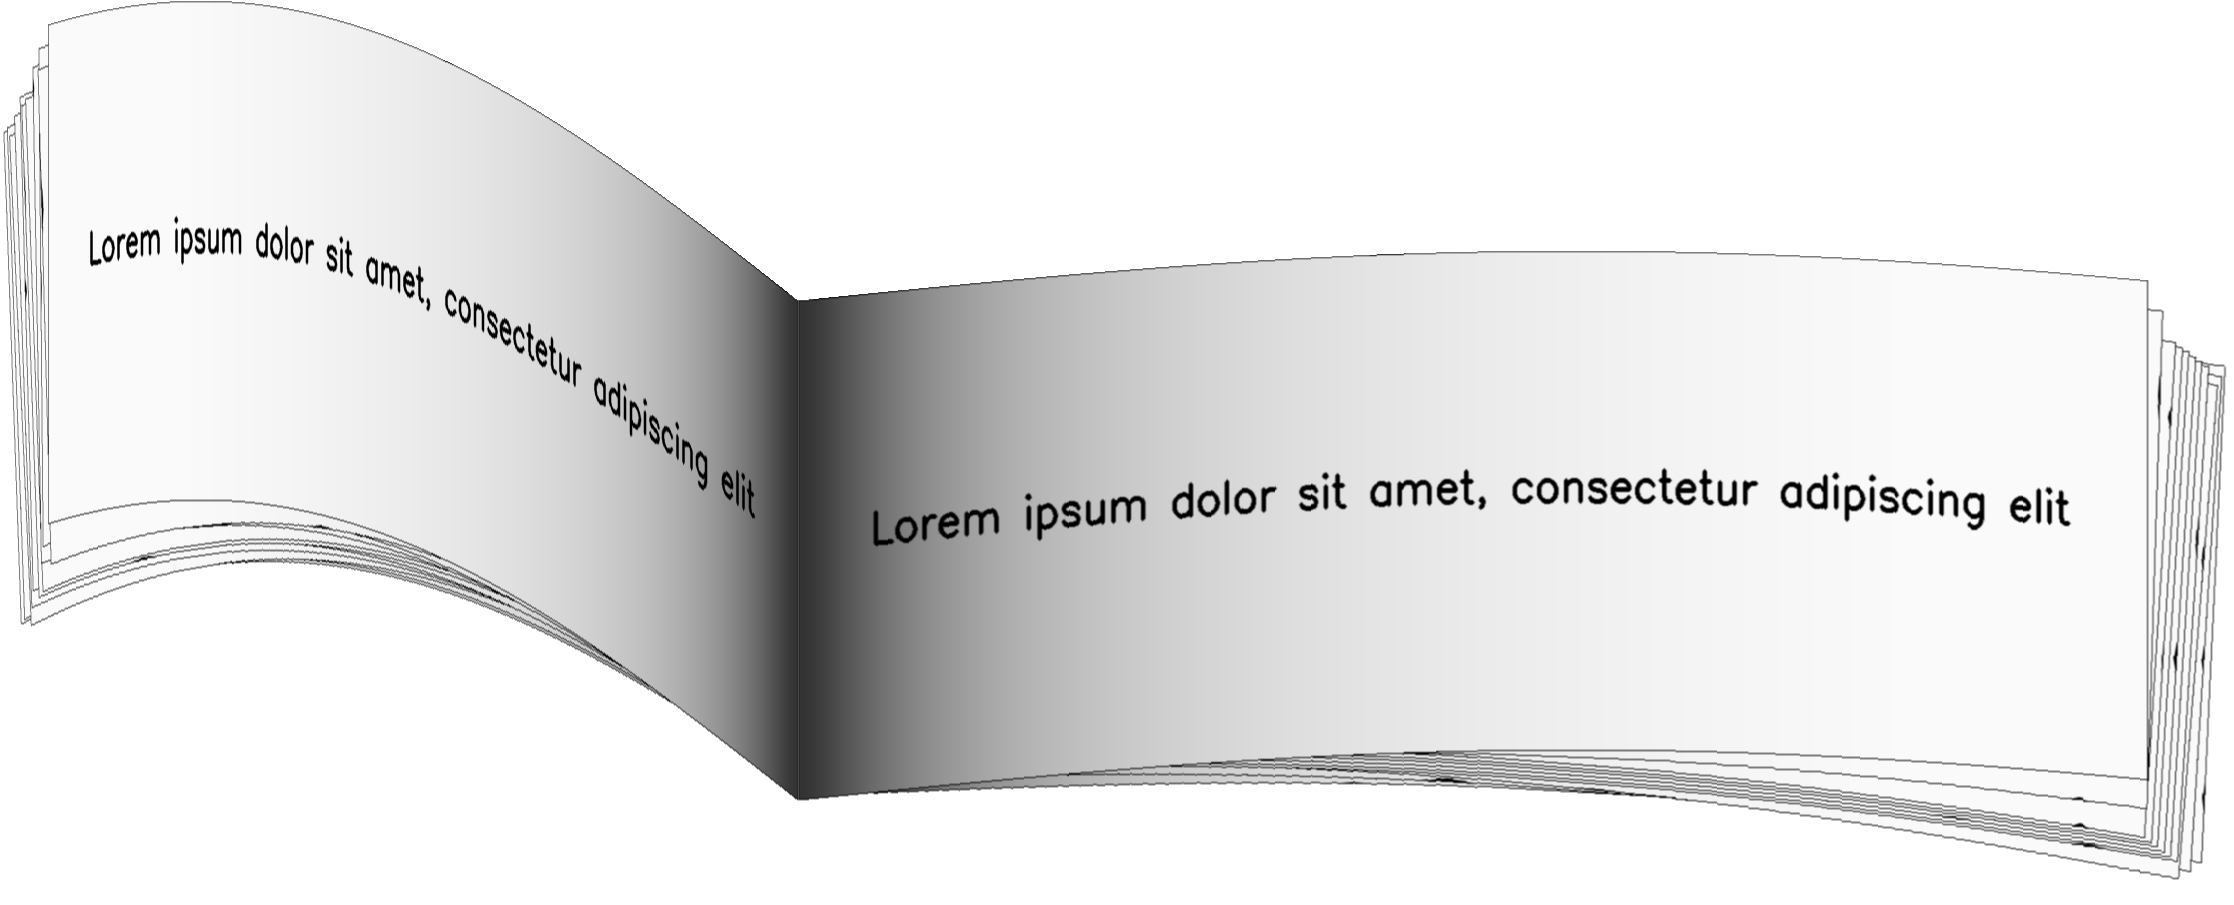
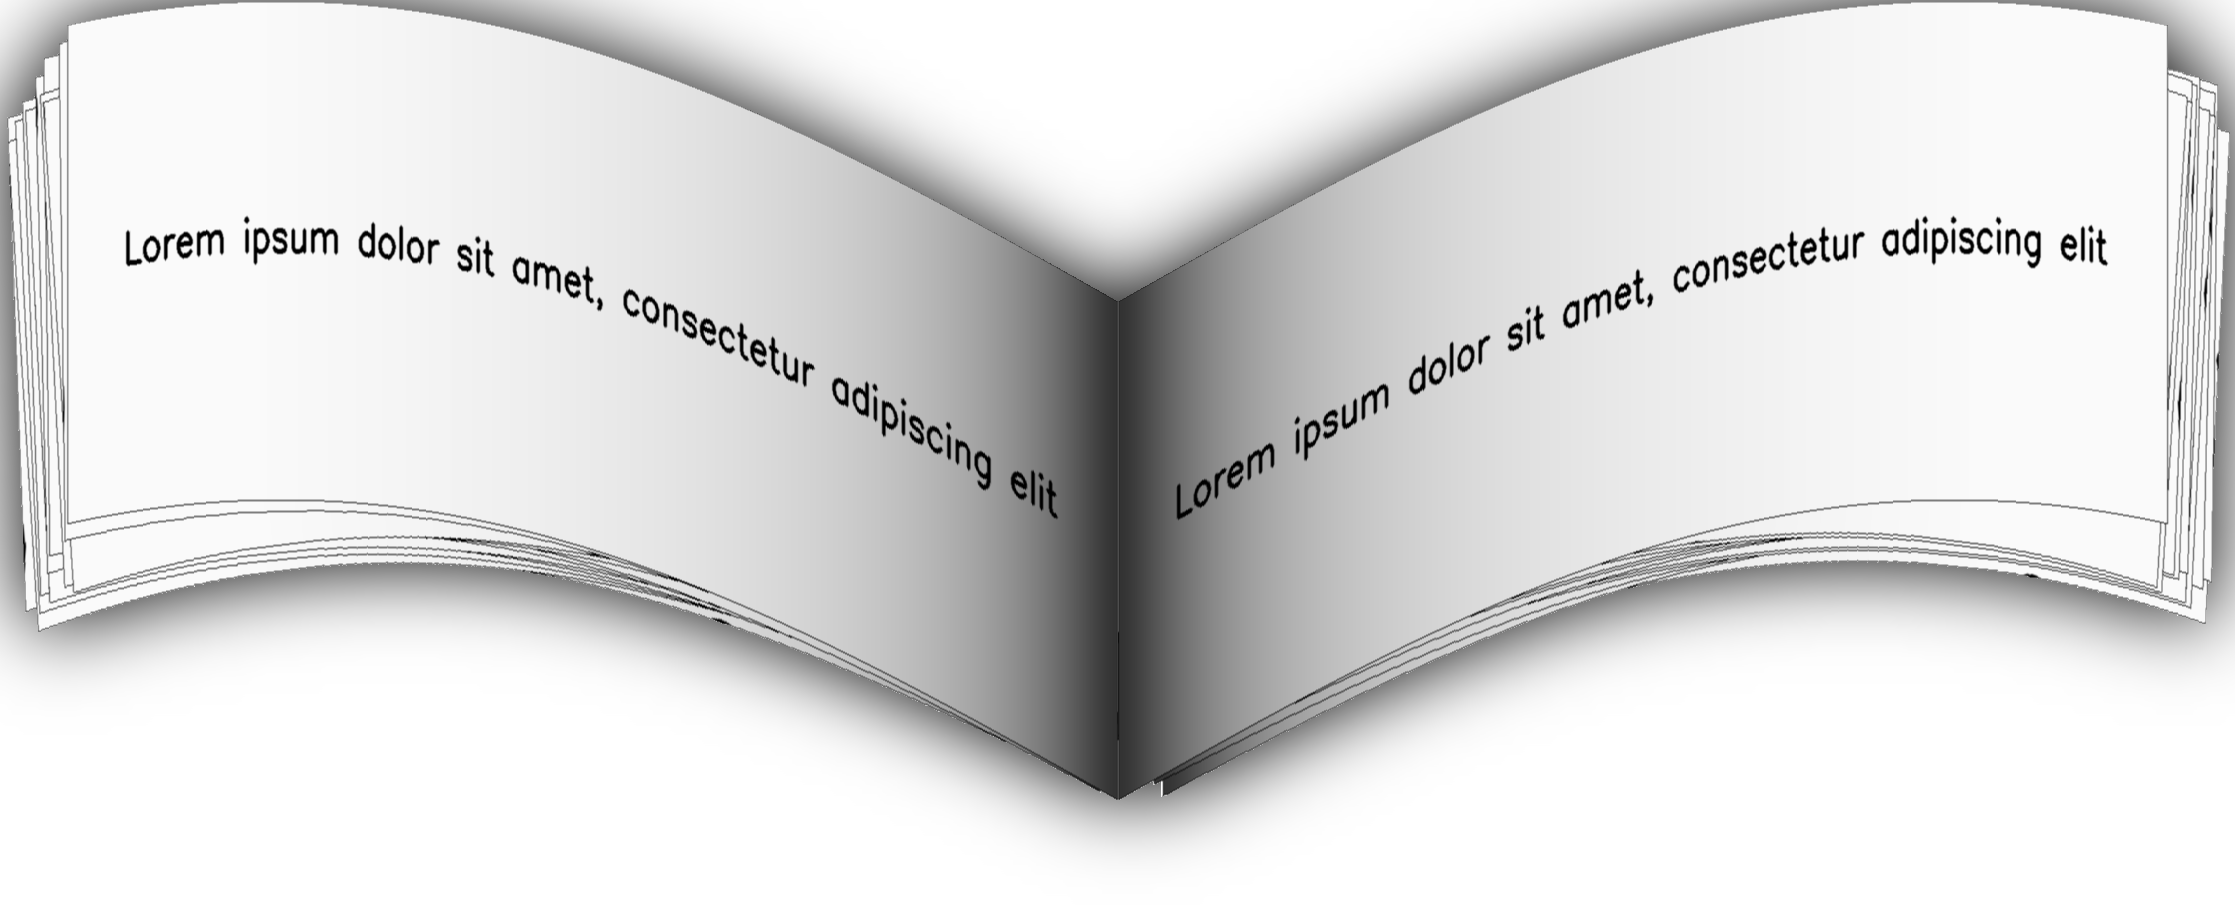
Added shadow effect in BookBinding.

diff --git a/augraphy/augmentations/bookbinding.py b/augraphy/augmentations/bookbinding.py
@@ -38,6 +38,8 @@ class BookBinding(Augmentation):
     :type curling_direction: int, optional
     :param backdrop_color: The backdrop color (BGR) of the book binding effect.
     :type backdrop_color: tuple, optional
+    :param enable_shadow: Flag to enable shadow on top of the book binding effect.
+    :type enable_shadow: int, optional
     :param use_cache_images: Flag to enable the usage of cache images in creating book binding effect.
     :type use_cache_images: int, optional
     :param numba_jit: The flag to enable numba jit to speed up the processing in the augmentation.
@@ -59,6 +61,7 @@ class BookBinding(Augmentation):
         binding_pages=(5, 10),
         curling_direction=-1,
         backdrop_color=(0, 0, 0),
+        enable_shadow=1,
         use_cache_images=1,
         numba_jit=1,
         p=1,
@@ -74,12 +77,13 @@ class BookBinding(Augmentation):
         self.binding_pages = binding_pages
         self.curling_direction = curling_direction
         self.backdrop_color = backdrop_color
+        self.enable_shadow = enable_shadow
         self.use_cache_images = use_cache_images
         self.numba_jit = numba_jit
         config.DISABLE_JIT = bool(1 - numba_jit)
 
     def __repr__(self):
-        return f"BookBinding(shadow_radius_range={self.shadow_radius_range}, curve_range_right={self.curve_range_right}, curve_range_left={self.curve_range_left}, curve_ratio_right={self.curve_ratio_right}, curve_ratio_left={self.curve_ratio_left}, mirror_range={self.mirror_range}, binding_align={self.binding_align}, binding_pages={self.binding_pages}, curling_direction={self.curling_direction}, backdrop_color={self.backdrop_color}, use_cache_images={self.use_cache_images}, numba_jit={self.numba_jit}, p={self.p})"
+        return f"BookBinding(shadow_radius_range={self.shadow_radius_range}, curve_range_right={self.curve_range_right}, curve_range_left={self.curve_range_left}, curve_ratio_right={self.curve_ratio_right}, curve_ratio_left={self.curve_ratio_left}, mirror_range={self.mirror_range}, binding_align={self.binding_align}, binding_pages={self.binding_pages}, curling_direction={self.curling_direction}, backdrop_color={self.backdrop_color}, enable_shadow={self.enable_shadow}, use_cache_images={self.use_cache_images}, numba_jit={self.numba_jit}, p={self.p})"
 
     def add_book_shadow(self, img, radius, angle=30):
         """Add shadow effect in the input image.
@@ -124,13 +128,15 @@ class BookBinding(Augmentation):
 
         return img_output.astype("uint8")
 
-    def curve_page(self, img, curve_value):
+    def curve_page(self, img, curve_value, backdrop_color):
         """Generate curvy effect in the input image.
 
         :param img: The image to apply the function.
         :type img: numpy.array (numpy.uint8)
         :param curve_value: Pixel number of the page text should be curved.
         :type curve_value: int
+        :param backdrop_color: The color of the filled background.
+        :type backdrop_color: tuple
 
         """
         rows = img.shape[0]
@@ -143,7 +149,7 @@ class BookBinding(Augmentation):
             channels = img.shape[2]
             img_output = np.full(
                 (rows + curve_value, cols, channels),
-                fill_value=self.backdrop_color,
+                fill_value=backdrop_color,
                 dtype=img.dtype,
             )
 
@@ -181,6 +187,63 @@ class BookBinding(Augmentation):
 
         return img_output
 
+    @staticmethod
+    @jit(nopython=True, cache=True)
+    def check_backdrop_color(image_output, image_mask, backdrop_color):
+        """Function to compute mask of background
+
+        :param image_output: The image with BookBinding effect.
+        :type image_output: numpy.array (numpy.uint8)
+        :param image_mask: The mask of background.
+        :type image_mask: numpy.array (numpy.uint8)
+        :param backdrop_color: The backdrop color in BGR format.
+        :type backdrop_color: tuple
+        """
+
+        for x in range(image_mask.shape[1]):
+            # check top down
+            for y in range(image_mask.shape[0]):
+                image_mask[y, x] = backdrop_color
+                color_eval = (
+                    image_output[y, x][0] == backdrop_color[0]
+                    and image_output[y, x][1] == backdrop_color[1]
+                    and image_output[y, x][2] == backdrop_color[2]
+                )
+                if not color_eval:
+                    break
+            # # check bottom up : reverse loop
+            for y in range(image_mask.shape[0] - 1, -1, -1):
+                image_mask[y, x] = backdrop_color
+                color_eval = (
+                    image_output[y, x][0] == backdrop_color[0]
+                    and image_output[y, x][1] == backdrop_color[1]
+                    and image_output[y, x][2] == backdrop_color[2]
+                )
+                if not color_eval:
+                    break
+
+        for y in range(image_mask.shape[0]):
+            # check left right
+            for x in range(image_mask.shape[1]):
+                image_mask[y, x] = backdrop_color
+                color_eval = (
+                    image_output[y, x][0] == backdrop_color[0]
+                    and image_output[y, x][1] == backdrop_color[1]
+                    and image_output[y, x][2] == backdrop_color[2]
+                )
+                if not color_eval:
+                    break
+            # # check right left : reverse loop
+            for x in range(image_mask.shape[1] - 1, -1, -1):
+                image_mask[y, x] = backdrop_color
+                color_eval = (
+                    image_output[y, x][0] == backdrop_color[0]
+                    and image_output[y, x][1] == backdrop_color[1]
+                    and image_output[y, x][2] == backdrop_color[2]
+                )
+                if not color_eval:
+                    break
+
     def curve_transform(self, image, curve_ratio_range, image_direction):
         """Bend image further in horizontal direction using perspective transform.
 
@@ -200,12 +263,12 @@ class BookBinding(Augmentation):
         if image_direction == "left":
             source_points = np.float32([[0, 0], [xsize, 0], [xsize, ysize], [0, ysize]])
             target_points = np.float32(
-                [[xsize * curve_ratio, 0], [xsize, 0], [xsize, ysize], [xsize * curve_ratio, ysize]],
+                [[int(xsize * curve_ratio), 0], [xsize, 0], [xsize, ysize], [int(xsize * curve_ratio), ysize]],
             )
         else:
             source_points = np.float32([[0, 0], [xsize, 0], [xsize, ysize], [0, ysize]])
             target_points = np.float32(
-                [[0, 0], [xsize * (1 - curve_ratio), 0], [xsize * (1 - curve_ratio), ysize], [0, ysize]],
+                [[0, 0], [int(xsize * (1 - curve_ratio)), 0], [int(xsize * (1 - curve_ratio)), ysize], [0, ysize]],
             )
 
         # perspective transform to further bend image in x direction only
@@ -227,6 +290,13 @@ class BookBinding(Augmentation):
         :param image_left: The left image of the book binding effect.
         :type image_left: numpy.array (numpy.uint8)
         """
+
+        # min value is 1, to differentiate between background
+        backdrop_color = (
+            max(1, self.backdrop_color[0]),
+            max(1, self.backdrop_color[1]),
+            max(1, self.backdrop_color[2]),
+        )
 
         if self.curling_direction == -1 or self.curling_direction == "random":
             curve_down = random.choice([0, 1])
@@ -265,7 +335,7 @@ class BookBinding(Augmentation):
         page_border = PageBorder(
             page_border_width_height=width_height,
             page_border_color=(0, 0, 0),
-            page_border_background_color=self.backdrop_color,
+            page_border_background_color=backdrop_color,
             page_border_use_cache_images=use_cache_images,
             page_border_trim_sides=trim_sides,
             page_numbers=random.randint(page_number, page_number),
@@ -288,7 +358,7 @@ class BookBinding(Augmentation):
         page_border = PageBorder(
             page_border_width_height=width_height,
             page_border_color=(0, 0, 0),
-            page_border_background_color=self.backdrop_color,
+            page_border_background_color=backdrop_color,
             page_border_use_cache_images=use_cache_images,
             page_border_trim_sides=trim_sides,
             page_numbers=random.randint(page_number, page_number),
@@ -322,9 +392,9 @@ class BookBinding(Augmentation):
                 constant_values=0,
             )
             if pad_value_top:
-                image_added_border_right[:pad_value_top, :] = self.backdrop_color
+                image_added_border_right[:pad_value_top, :] = backdrop_color
             else:
-                image_added_border_right[-pad_value_bottom:, :] = self.backdrop_color
+                image_added_border_right[-pad_value_bottom:, :] = backdrop_color
         elif image_added_border_right.shape[0] > image_added_border_left.shape[0]:
             image_added_border_left = np.pad(
                 image_added_border_left,
@@ -333,15 +403,15 @@ class BookBinding(Augmentation):
                 constant_values=0,
             )
             if pad_value_top:
-                image_added_border_left[:pad_value_top, :] = self.backdrop_color
+                image_added_border_left[:pad_value_top, :] = backdrop_color
             else:
-                image_added_border_left[-pad_value_bottom:, :] = self.backdrop_color
+                image_added_border_left[-pad_value_bottom:, :] = backdrop_color
 
         # apply curvy effect
-        image_right = self.curve_page(image_added_border_right, curve_value_right)
+        image_right = self.curve_page(image_added_border_right, curve_value_right, backdrop_color)
         if not curve_down:
             image_right = np.flipud(image_right)
-        image_left = np.fliplr(self.curve_page(np.fliplr(image_added_border_left), curve_value_left))
+        image_left = np.fliplr(self.curve_page(np.fliplr(image_added_border_left), curve_value_left, backdrop_color))
         if not curve_down:
             image_left = np.flipud(image_left)
 
@@ -360,15 +430,15 @@ class BookBinding(Augmentation):
                     mode="constant",
                     constant_values=0,
                 )
-                image_right[:pad_value_top, :] = self.backdrop_color
+                image_right[:pad_value_top, :] = backdrop_color
             elif image_right.shape[0] > image_left.shape[0]:
                 image_left = np.pad(
                     image_left,
-                    pad_width=((pad_value_top, pad_value_bottom), (0, 0), (0, 0)),
+                    pad_width=((pad_value_top, 0), (0, 0), (0, 0)),
                     mode="constant",
                     constant_values=0,
                 )
-                image_left[:pad_value_top, :] = self.backdrop_color
+                image_left[:pad_value_top, :] = backdrop_color
 
         # further bend left image by using perspective transform
         ysize, xsize = image_left.shape[:2]
@@ -384,7 +454,7 @@ class BookBinding(Augmentation):
         # create new image with original size + mirror size
         image_output = np.full(
             (max(ysize, cysize), xsize + cxsize, image.shape[2]),
-            fill_value=self.backdrop_color,
+            fill_value=backdrop_color,
             dtype="uint8",
         )
 
@@ -392,44 +462,38 @@ class BookBinding(Augmentation):
         image_output[:ysize, :xsize] = image_left
         image_output[:cysize, xsize:] = image_right
 
-        # add shadow effect (temporary disabled, will be updated later)
-        """
-        # get mask for shadow effect
-        if len(image.shape) > 2:
-            backdrop_color = self.backdrop_color
-        else:
-            backdrop_color = np.mean(self.backdrop_color)
-        image_mask = np.zeros_like(image_output, dtype="uint8")
-        if not curve_down:
-            image_output = np.flipud(image_output)
+        # add shadow effect
+        if self.enable_shadow:
+            # get mask for shadow effect
+            image_mask = np.zeros_like(image_output, dtype="uint8")
 
+            self.check_backdrop_color(image_output, image_mask, backdrop_color)
 
-        for x in range(image_mask.shape[1]):
-            for y in range(image_mask.shape[0]):
-                if len(image.shape) > 2:
-                    color_eval = all(image_output[y, x] == backdrop_color)
-                else:
-                    color_eval = image_output[y, x] == backdrop_color
-                if color_eval:
-                    image_mask[y, x] = 1
-                else:
-                    break
+            mysize, mxsize = image_mask.shape[:2]
+            # extended value
+            ext = 100
+            emysize, emxsize = (
+                mysize + (ext * 2),
+                mxsize + (ext * 2),
+            )
+            image_mask_extend = np.full((emysize, emxsize, 3), fill_value=backdrop_color, dtype="uint8")
+            image_mask_extend[ext:-ext, ext:-ext] = image_mask
 
-        if not curve_down:
-            image_output = np.flipud(image_output)
-            image_mask = np.flipud(image_mask)
+            image_shadow = cv2.resize(
+                image_mask_extend,
+                (max(50, int(emxsize / 10)), max(50, int(emysize / 10))),
+                interpolation=cv2.INTER_AREA,
+            )
+            image_shadow = cv2.GaussianBlur(image_shadow, (255, 255), cv2.BORDER_DEFAULT)
+            image_shadow = cv2.resize(image_shadow, (emxsize, emysize), interpolation=cv2.INTER_LINEAR)
+            image_shadow = image_shadow[ext:-ext, ext:-ext]
+            image_output[image_mask > 0] = image_shadow[image_mask > 0]
 
-
-        image_darken = image_output.astype("float") * 0.7
-        offset = random.randint(int(image.shape[0] / 40), int(image.shape[0] / 30))
-        image_darken[image_mask > 0] = image_output[image_mask > 0]
-        if curve_down:
-            image_darken[:-offset, :] = image_darken[offset:, :]
-        else:
-            image_darken[offset:, :] = image_darken[:-offset, :]
-        image_darken = cv2.GaussianBlur(image_darken.astype("uint8"), (151, 151), cv2.BORDER_DEFAULT)
-        image_output[image_mask > 0] = image_darken[image_mask > 0]
-        """
+        # replace with input backdrop_color
+        for i in range(3):
+            if backdrop_color[i] != self.backdrop_color[i]:
+                indices = np.logical_and(image_output[:, :, i] == backdrop_color[i], image_mask[:, :, i] > 0)
+                image_output[:, :, i][indices] = self.backdrop_color[i]
 
         return image_output
 

diff --git a/doc/source/augmentations/bookbinding.rst b/doc/source/augmentations/bookbinding.rst
@@ -48,11 +48,11 @@ Example 1
 ---------
 In this example, a BookBinding augmentation instance is initialized and the curling direction is set to bend up (curling_direction=0).
 The shadow radius range is set to 100 pixels (100,100).
-The amount of curving down pixels in the right image is set to 50 (50, 50) while The amount of curving down pixels in the left image is set to 300 (300, 300).
-The horizontal bending ratio in right image is 10% (0.1, 0.1) while the horizontal bending ratio in left image is 50% (0.5, 0.5).
+The amount of curving down pixels in both of the right and left images are set to 300 (300, 300).
+The horizontal bending ratio in both both of the right and left image are 30% (0.3, 0.3).
 The percentage of left page mirroring for the binding effect is set to the 100% (1, 1).
 The pages in the book binding effect is set to align randomly (binding_align = 0) and the number of pages is set to 10 (10, 10).
-The backdrop color of the effect is set to white color (255, 255, 255).
+The backdrop color of the effect is set to white color (255, 255, 255) and shadow effect is added (enable_shadow=1).
 No cache images will be used to generate the pages (use_cache_images = 0).
 
 Code example:
@@ -60,15 +60,16 @@ Code example:
 ::
 
     book_binder_up = BookBinding(shadow_radius_range=(100, 100),
-                                 curve_range_right=(50, 50),
+                                 curve_range_right=(300, 300),
                                  curve_range_left=(300, 300),
-                                 curve_ratio_right = (0.1, 0.1),
-                                 curve_ratio_left = (0.5, 0.5),
+                                 curve_ratio_right = (0.3, 0.3),
+                                 curve_ratio_left = (0.3, 0.3),
                                  mirror_range=(1.0, 1.0),
                                  binding_align = 0,
                                  binding_pages = (10,10),
                                  curling_direction=0,
                                  backdrop_color=(255, 255, 255),
+				 enable_shadow=1,
                                  use_cache_images = 0,
                                  )
 
@@ -88,7 +89,7 @@ The amount of curving down pixels in the right image is set to 50 (50, 50) while
 The horizontal bending ratio in right image is 5% (0.05, 0.05) while the horizontal bending ratio in left image is 30% (0.3, 0.3).
 The percentage of left page mirroring for the binding effect is set to the 50% (0.5, 0.5).
 The pages in the book binding effect is set to align properly (binding_align = 1) and the number of pages is set to 10 (10, 10).
-The backdrop color of the effect is set to white color (255, 255, 255).
+The backdrop color of the effect is set to white color (255, 255, 255) and no shadow effect is added (enable_shadow=0).
 No cache images will be used to generate the pages (use_cache_images = 0).
 
 Code example:
@@ -96,17 +97,18 @@ Code example:
 ::
 
     book_binder_down = BookBinding(shadow_radius_range=(100, 100),
-                                 curve_range_right=(50, 50),
-                                 curve_range_left=(300, 300),
-                                 curve_ratio_right = (0.05, 0.05),
-                                 curve_ratio_left = (0.3, 0.3),
-                                 mirror_range=(0.50, 0.50),
-                                 binding_align = 1,
-                                 binding_pages = (10,10),
-                                 curling_direction=1,
-                                 backdrop_color=(255, 255, 255),
-                                 use_cache_images = 0,
-                                 )
+                                  curve_range_right=(50, 50),
+                                  curve_range_left=(300, 300),
+                                  curve_ratio_right = (0.05, 0.05),
+                                  curve_ratio_left = (0.3, 0.3),
+                                  mirror_range=(0.50, 0.50),
+                                  binding_align = 1,
+                                  binding_pages = (10,10),
+                                  curling_direction=1,
+                                  backdrop_color=(255, 255, 255),
+                                  enable_shadow=0,
+                                  use_cache_images = 0,
+                                  )
 
 
     img_book_binding_down= book_binder_down(image)
